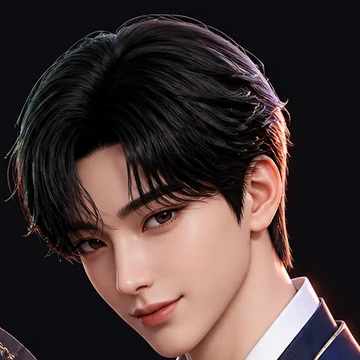
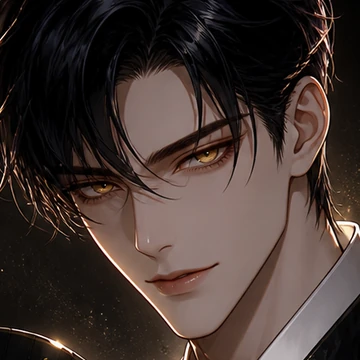
캐릭터 3종을 현대 웹툰·다크 로판풍 일러스트로 업그레이드: 본체·얼굴 크롭·og 미리보기·파비콘 교체, 이미지 캐시 버전 갱신

diff --git a/newyear-2027.html b/newyear-2027.html
@@ -12,8 +12,8 @@
 <meta property="og:image:height" content="630">
 <meta name="twitter:card" content="summary_large_image">
 <meta name="theme-color" content="#08090f">
-<link rel="icon" href="favicon.png?v=2" type="image/png">
-<link rel="apple-touch-icon" href="apple-touch-icon.png?v=2">
+<link rel="icon" href="favicon.png?v=3" type="image/png">
+<link rel="apple-touch-icon" href="apple-touch-icon.png?v=3">
 <link rel="preconnect" href="https://fonts.googleapis.com">
 <link rel="preconnect" href="https://fonts.gstatic.com" crossorigin>
 <link href="https://fonts.googleapis.com/css2?family=Noto+Sans+KR:wght@400;500;700&family=Noto+Serif+KR:wght@400;600;700&display=swap" rel="stylesheet">
@@ -46,7 +46,7 @@
         <h1>2027년, 내게<br>무슨 <span class="gold">기운</span>이 오나</h1>
         <p>2026년 병오(丙午)의 뜨거운 말의 해가 지나고, 2027년은 정미(丁未)년이 들어옵니다. 작은 촛불 같은 정화와 여름 끝의 습한 흙 미토 — 이 두 기운이 내 일간과 만나면 어떤 일이 힘을 받을까요.</p>
       </div>
-      <div class="ph-char"><span class="char-frame"><img class="char-img" src="assets/char-chic.webp" alt="2027년 운세를 풀어주는 역술가 캐릭터" width="300" height="380" decoding="async"></span></div>
+      <div class="ph-char"><span class="char-frame"><img class="char-img" src="assets/char-chic.webp?v=2" alt="2027년 운세를 풀어주는 역술가 캐릭터" width="300" height="380" decoding="async"></span></div>
     </section>
 
     <section class="page-sec">

diff --git a/compatibility.html b/compatibility.html
@@ -12,8 +12,8 @@
 <meta property="og:image:height" content="630">
 <meta name="twitter:card" content="summary_large_image">
 <meta name="theme-color" content="#08090f">
-<link rel="icon" href="favicon.png?v=2" type="image/png">
-<link rel="apple-touch-icon" href="apple-touch-icon.png?v=2">
+<link rel="icon" href="favicon.png?v=3" type="image/png">
+<link rel="apple-touch-icon" href="apple-touch-icon.png?v=3">
 <link rel="preconnect" href="https://fonts.googleapis.com">
 <link rel="preconnect" href="https://fonts.gstatic.com" crossorigin>
 <link href="https://fonts.googleapis.com/css2?family=Noto+Sans+KR:wght@400;500;700&family=Noto+Serif+KR:wght@400;600;700&display=swap" rel="stylesheet">
@@ -46,7 +46,7 @@
         <h1>우리 <span class="gold">궁합</span>,<br>몇 점일까?</h1>
         <p>두 사람의 여덟 글자를 나란히 놓고 봅니다. 중심 기운이 서로를 살리는지, 생활 자리가 합을 이루는지, 부족한 오행을 채워주는지 하나씩 짚어드리지.</p>
       </div>
-      <div class="ph-char"><span class="char-frame"><img class="char-img" src="assets/char-seonnyeo.webp" alt="궁합을 풀어주는 선녀 캐릭터" width="300" height="380" decoding="async"></span></div>
+      <div class="ph-char"><span class="char-frame"><img class="char-img" src="assets/char-seonnyeo.webp?v=2" alt="궁합을 풀어주는 선녀 캐릭터" width="300" height="380" decoding="async"></span></div>
     </section>
 
     <section class="page-sec">

diff --git a/index.html b/index.html
@@ -15,8 +15,8 @@
 <meta property="og:image:height" content="630">
 <meta name="twitter:card" content="summary_large_image">
 <meta name="theme-color" content="#08090f">
-<link rel="icon" href="favicon.png?v=2" type="image/png">
-<link rel="apple-touch-icon" href="apple-touch-icon.png?v=2">
+<link rel="icon" href="favicon.png?v=3" type="image/png">
+<link rel="apple-touch-icon" href="apple-touch-icon.png?v=3">
 <link rel="preconnect" href="https://fonts.googleapis.com">
 <link rel="preconnect" href="https://fonts.gstatic.com" crossorigin>
 <link href="https://fonts.googleapis.com/css2?family=Noto+Sans+KR:wght@400;500;700&family=Noto+Serif+KR:wght@400;600;700&display=swap" rel="stylesheet">
@@ -77,7 +77,7 @@
           <div class="who"><i></i>도사님</div>
           <div id="hero-bubble-text">어서 오게. 생일만 알려주면 여덟 글자를 풀어주지.</div>
         </div>
-        <span class="char-frame hero-char"><img class="char-img" src="assets/char-doryeong.webp" alt="부채를 든 꽃미남 도령 캐릭터" width="260" height="330" decoding="async"></span>
+        <span class="char-frame hero-char"><img class="char-img" src="assets/char-doryeong.webp?v=2" alt="부채를 든 꽃미남 도령 캐릭터" width="260" height="330" decoding="async"></span>
       </div>
     </section>
 

diff --git a/js/ui.js b/js/ui.js
@@ -995,9 +995,9 @@
 
   /* ---------- 캐릭터 ---------- */
   var CHARS = {
-    doryeong: { file: 'assets/char-doryeong.webp', face: 'assets/char-doryeong-face.webp', label: '꽃미남 도령' },
-    seonnyeo: { file: 'assets/char-seonnyeo.webp', face: 'assets/char-seonnyeo-face.webp', label: '우아한 선녀' },
-    chic: { file: 'assets/char-chic.webp', face: 'assets/char-chic-face.webp', label: '시크한 역술가' }
+    doryeong: { file: 'assets/char-doryeong.webp?v=2', face: 'assets/char-doryeong-face.webp?v=2', label: '꽃미남 도령' },
+    seonnyeo: { file: 'assets/char-seonnyeo.webp?v=2', face: 'assets/char-seonnyeo-face.webp?v=2', label: '우아한 선녀' },
+    chic: { file: 'assets/char-chic.webp?v=2', face: 'assets/char-chic-face.webp?v=2', label: '시크한 역술가' }
   };
   function charOfCat(cat) {
     return cat === 'love' ? 'seonnyeo' : cat === 'jeontong' ? 'doryeong' : 'chic';

diff --git a/js/story.js b/js/story.js
@@ -12,17 +12,17 @@
   var CASTS = {
     doryeong: {
       name: '도사 도령', role: '정통사주 · 총운',
-      face: 'assets/char-doryeong-face.webp', body: 'assets/char-doryeong.webp',
+      face: 'assets/char-doryeong-face.webp?v=2', body: 'assets/char-doryeong.webp?v=2',
       alt: '부채를 든 꽃미남 도령'
     },
     seonnyeo: {
       name: '선녀 도사', role: '궁합 · 인연',
-      face: 'assets/char-seonnyeo-face.webp', body: 'assets/char-seonnyeo.webp',
+      face: 'assets/char-seonnyeo-face.webp?v=2', body: 'assets/char-seonnyeo.webp?v=2',
       alt: '우아한 선녀 도사'
     },
     chic: {
       name: '시크 역술가', role: '2027 정미년',
-      face: 'assets/char-chic-face.webp', body: 'assets/char-chic.webp',
+      face: 'assets/char-chic-face.webp?v=2', body: 'assets/char-chic.webp?v=2',
       alt: '시크한 역술가'
     }
   };

diff --git a/about.html b/about.html
@@ -6,8 +6,8 @@
 <title>소개 | 운세도사 — 만든 이유와 계산 방식</title>
 <meta name="description" content="운세도사는 회원가입 없이 생년월일만으로 사주팔자·오행·궁합·2027 신년운세를 보는 무료 사주풀이 웹앱입니다. 계산 방식과 운영 원칙을 안내합니다.">
 <meta name="theme-color" content="#08090f">
-<link rel="icon" href="favicon.png?v=2" type="image/png">
-<link rel="apple-touch-icon" href="apple-touch-icon.png?v=2">
+<link rel="icon" href="favicon.png?v=3" type="image/png">
+<link rel="apple-touch-icon" href="apple-touch-icon.png?v=3">
 <link rel="preconnect" href="https://fonts.googleapis.com">
 <link rel="preconnect" href="https://fonts.gstatic.com" crossorigin>
 <link href="https://fonts.googleapis.com/css2?family=Noto+Sans+KR:wght@400;500;700&family=Noto+Serif+KR:wght@400;600;700&display=swap" rel="stylesheet">

diff --git a/privacy.html b/privacy.html
@@ -6,8 +6,8 @@
 <title>개인정보처리방침 | 운세도사</title>
 <meta name="description" content="운세도사 개인정보처리방침. 생년월일 등 입력 정보는 서버로 전송되지 않으며 브라우저에서만 계산됩니다. 쿠키와 광고에 관한 안내를 포함합니다.">
 <meta name="theme-color" content="#08090f">
-<link rel="icon" href="favicon.png?v=2" type="image/png">
-<link rel="apple-touch-icon" href="apple-touch-icon.png?v=2">
+<link rel="icon" href="favicon.png?v=3" type="image/png">
+<link rel="apple-touch-icon" href="apple-touch-icon.png?v=3">
 <link rel="preconnect" href="https://fonts.googleapis.com">
 <link rel="preconnect" href="https://fonts.gstatic.com" crossorigin>
 <link href="https://fonts.googleapis.com/css2?family=Noto+Sans+KR:wght@400;500;700&family=Noto+Serif+KR:wght@400;600;700&display=swap" rel="stylesheet">

diff --git a/guide-2027-zodiac.html b/guide-2027-zodiac.html
@@ -19,8 +19,8 @@
 <meta property="og:site_name" content="운세도사">
 <meta name="twitter:card" content="summary_large_image">
 <meta name="theme-color" content="#08090f">
-<link rel="icon" href="favicon.png?v=2" type="image/png">
-<link rel="apple-touch-icon" href="apple-touch-icon.png?v=2">
+<link rel="icon" href="favicon.png?v=3" type="image/png">
+<link rel="apple-touch-icon" href="apple-touch-icon.png?v=3">
 <link rel="preconnect" href="https://fonts.googleapis.com">
 <link rel="preconnect" href="https://fonts.gstatic.com" crossorigin>
 <link href="https://fonts.googleapis.com/css2?family=Noto+Sans+KR:wght@400;500;700&family=Noto+Serif+KR:wght@400;600;700&display=swap" rel="stylesheet">

diff --git a/guide-compatibility.html b/guide-compatibility.html
@@ -19,8 +19,8 @@
 <meta property="og:site_name" content="운세도사">
 <meta name="twitter:card" content="summary_large_image">
 <meta name="theme-color" content="#08090f">
-<link rel="icon" href="favicon.png?v=2" type="image/png">
-<link rel="apple-touch-icon" href="apple-touch-icon.png?v=2">
+<link rel="icon" href="favicon.png?v=3" type="image/png">
+<link rel="apple-touch-icon" href="apple-touch-icon.png?v=3">
 <link rel="preconnect" href="https://fonts.googleapis.com">
 <link rel="preconnect" href="https://fonts.gstatic.com" crossorigin>
 <link href="https://fonts.googleapis.com/css2?family=Noto+Sans+KR:wght@400;500;700&family=Noto+Serif+KR:wght@400;600;700&display=swap" rel="stylesheet">

diff --git a/guide-daeun.html b/guide-daeun.html
@@ -19,8 +19,8 @@
 <meta property="og:site_name" content="운세도사">
 <meta name="twitter:card" content="summary_large_image">
 <meta name="theme-color" content="#08090f">
-<link rel="icon" href="favicon.png?v=2" type="image/png">
-<link rel="apple-touch-icon" href="apple-touch-icon.png?v=2">
+<link rel="icon" href="favicon.png?v=3" type="image/png">
+<link rel="apple-touch-icon" href="apple-touch-icon.png?v=3">
 <link rel="preconnect" href="https://fonts.googleapis.com">
 <link rel="preconnect" href="https://fonts.gstatic.com" crossorigin>
 <link href="https://fonts.googleapis.com/css2?family=Noto+Sans+KR:wght@400;500;700&family=Noto+Serif+KR:wght@400;600;700&display=swap" rel="stylesheet">

diff --git a/guide-manseryeok.html b/guide-manseryeok.html
@@ -19,8 +19,8 @@
 <meta property="og:site_name" content="운세도사">
 <meta name="twitter:card" content="summary_large_image">
 <meta name="theme-color" content="#08090f">
-<link rel="icon" href="favicon.png?v=2" type="image/png">
-<link rel="apple-touch-icon" href="apple-touch-icon.png?v=2">
+<link rel="icon" href="favicon.png?v=3" type="image/png">
+<link rel="apple-touch-icon" href="apple-touch-icon.png?v=3">
 <link rel="preconnect" href="https://fonts.googleapis.com">
 <link rel="preconnect" href="https://fonts.gstatic.com" crossorigin>
 <link href="https://fonts.googleapis.com/css2?family=Noto+Sans+KR:wght@400;500;700&family=Noto+Serif+KR:wght@400;600;700&display=swap" rel="stylesheet">

diff --git a/guide-oheng.html b/guide-oheng.html
@@ -19,8 +19,8 @@
 <meta property="og:site_name" content="운세도사">
 <meta name="twitter:card" content="summary_large_image">
 <meta name="theme-color" content="#08090f">
-<link rel="icon" href="favicon.png?v=2" type="image/png">
-<link rel="apple-touch-icon" href="apple-touch-icon.png?v=2">
+<link rel="icon" href="favicon.png?v=3" type="image/png">
+<link rel="apple-touch-icon" href="apple-touch-icon.png?v=3">
 <link rel="preconnect" href="https://fonts.googleapis.com">
 <link rel="preconnect" href="https://fonts.gstatic.com" crossorigin>
 <link href="https://fonts.googleapis.com/css2?family=Noto+Sans+KR:wght@400;500;700&family=Noto+Serif+KR:wght@400;600;700&display=swap" rel="stylesheet">
